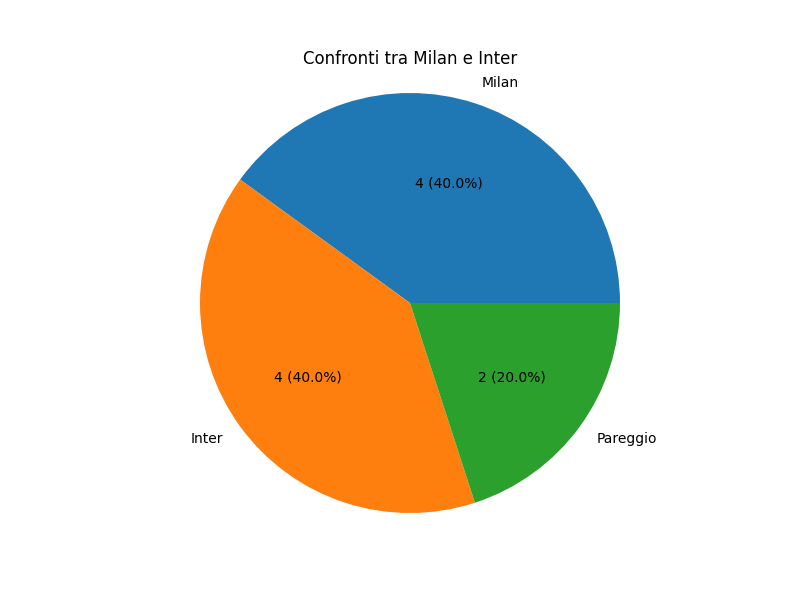
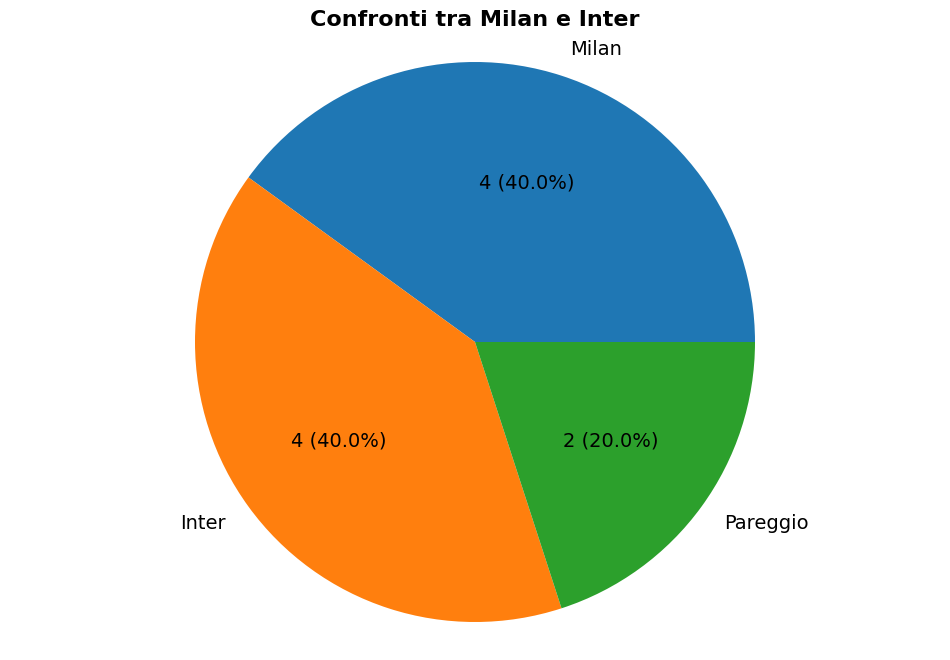
Migliorato layout: lista delle partite a sinistra e grafico a destra

Changed region(s): [[0.1875, 0.0, 0.8438, 0.96], [0.5938, 0.6, 0.6875, 0.69], [0.5, 0.27, 0.625, 0.33]]

diff --git a/code/static/style.css b/code/static/style.css
@@ -105,8 +105,6 @@ button:hover {
 
 /* Area dei risultati */
 .result {
-    text-align: center;
-    align-items: center;
     margin-top: 25px;
     padding: 20px;
     background: #f8f9fa;
@@ -152,4 +150,60 @@ button:hover {
   display: flex;
   flex-direction: column; /* etichetta sopra, input sotto */
   min-width: 180px; /* larghezza minima */
+}
+
+/* Layout per risultati con grafico */
+.results-container {
+    display: flex;
+    gap: 40px;
+    align-items: flex-start;
+    margin-top: 20px;
+    justify-content: center; /* Centra il contenuto orizzontalmente */
+    max-width: 95%; /* Aumentata la larghezza massima */
+    margin-left: auto;
+    margin-right: auto;
+}
+
+.text-results {
+    flex: 0 1 450px; /* Ridotta la larghezza del testo per dare più spazio al grafico */
+    text-align: left;
+    padding: 15px;
+    font-size: 16px;
+    line-height: 1.5;
+}
+
+.graph-container {
+    flex: 0 1 600px; /* AUMENTATA la larghezza massima per il grafico */
+    text-align: center;
+    padding: 15px;
+}
+
+.graph-image {
+    width: 100%; /* Usa tutta la larghezza disponibile */
+    max-width: 600px; /* AUMENTATA la larghezza massima */
+    height: auto;
+    border-radius: 12px;
+    box-shadow: 0 4px 15px rgba(0,0,0,0.2);
+}
+
+/* Per schermi piccoli, metti il grafico sotto */
+@media (max-width: 768px) {
+    .results-container {
+        flex-direction: column;
+        gap: 20px;
+        max-width: 100%;
+    }
+    
+    .text-results, .graph-container {
+        width: 100%;
+        flex: none;
+    }
+    
+    .text-results {
+        text-align: center;
+    }
+    
+    .graph-image {
+        max-width: 100%;
+    }
 }

diff --git a/code/templates/index.html b/code/templates/index.html
@@ -112,14 +112,24 @@
                     
                     let htmlContent = data.result.replace(/\n/g, '<br>');
                     
-                    // Se c'è un grafico, aggiungi l'immagine
+                    // Se c'è un grafico, crea un layout a due colonne
                     if (data.has_graph) {
                         // Aggiungi timestamp per evitare cache
                         const timestamp = new Date().getTime();
-                        htmlContent += `<br><br><img src="/static/grafico.png?t=${timestamp}" alt="Grafico confronto" style="max-width: 100%; border-radius: 8px; box-shadow: 0 2px 10px rgba(0,0,0,0.1);">`;
+                        resultDiv.innerHTML = `
+                            <div class="results-container">
+                                <div class="text-results">
+                                    ${htmlContent}
+                                </div>
+                                <div class="graph-container">
+                                    <img src="/static/grafico.png?t=${timestamp}" alt="Grafico confronto" class="graph-image">
+                                </div>
+                            </div>
+                        `;
+                    } else {
+                        // Se non c'è grafico, mantieni il layout normale
+                        resultDiv.innerHTML = htmlContent;
                     }
-                    
-                    resultDiv.innerHTML = htmlContent;
                 }
             })
             .catch(error => {

diff --git a/code/seriea_analisi.py b/code/seriea_analisi.py
@@ -2,10 +2,11 @@ import os
 import matplotlib.pyplot as plt
 import numpy as np
 
+
 def openFile(filename):
     base_path = os.path.dirname(os.path.abspath(__file__))
     filepath = os.path.join(base_path, "..", "data", filename)
-    return open(filepath, "r")
+    return open(filepath, "r", encoding="utf-8", errors="ignore")
 
 def closeFile(fil):
     fil.close()
@@ -97,14 +98,15 @@ def stampaPartite(sc, sa):
             val = int(round(pct*total/100.0))
             return f"{val} ({pct:.1f}%)"
 
-        plt.figure(figsize=(8, 6))
-        plt.pie(y, labels=labels, autopct=lambda pct: make_label(pct, y))
+        # AUMENTATE le dimensioni del grafico
+        plt.figure(figsize=(12, 8))  # Aumentato da (8,6) a (12,8)
+        plt.pie(y, labels=labels, autopct=lambda pct: make_label(pct, y), textprops={'fontsize': 14})
         plt.axis('equal')
-        plt.title(f"Confronti tra {sc} e {sa}")
+        plt.title(f"Confronti tra {sc} e {sa}", fontsize=16, fontweight='bold')
         
         # Salva il grafico invece di mostrarlo
         graph_path = os.path.join(os.path.dirname(os.path.abspath(__file__)), "static", "grafico.png")
-        plt.savefig(graph_path)
+        plt.savefig(graph_path, dpi=100, bbox_inches='tight')  # Aumentato DPI per migliore qualità
         plt.close()  # Chiude la figura per liberare memoria
         
         # Restituisce sia i risultati che il percorso del grafico
